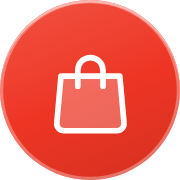
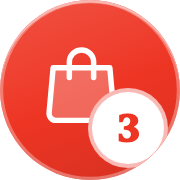
Composed mark with the 3 on a live disc; slimmer announcement strip

Changed region(s): [[0.25, 0.25, 0.9444, 0.9444]]

diff --git a/katie-hunt/site.css b/katie-hunt/site.css
@@ -2199,3 +2199,42 @@ body.modalopen{overflow:hidden}
 /* only the left column rises; the pill and headline beside it stay where they are */
 #page .hleft{padding-top:0;margin-top:-16px}
 @media (max-width:900px){#page .hleft{margin-top:0}}
+
+/* ------------------------------------------- the mark is composed: subject, live arc, and the 3
+   Not an icon in a circle. Their subject sits off-centre, a broadcast arc says the thing is live, and
+   the 3 of the three days rides a disc in their own display face. */
+#page .nav .cal .bmark,.melogo{overflow:visible}
+#page .nav .cal .bmark > .bglyph,.melogo > .bglyph{width:54%;height:54%;
+  transform:translate(-4.5%,-4.5%)}
+#page .nav .cal .bmark .blive,.melogo .blive{stroke-opacity:.6}
+.b3{position:absolute;right:9%;bottom:9%;width:40%;height:40%;border-radius:50%;background:#fff;
+  display:grid;place-items:center;z-index:3;
+  box-shadow:0 0 0 1.5px color-mix(in srgb,var(--accent) 34%,#fff),0 1px 3px rgba(28,20,12,.22)}
+/* the ring breathes, the way a live dot does */
+#page .nav .cal .bmark .b3{animation:b3live 2.6s ease-out infinite}
+@keyframes b3live{
+  0%,100%{box-shadow:0 0 0 1.5px color-mix(in srgb,var(--accent) 34%,#fff),0 1px 3px rgba(28,20,12,.22)}
+  50%{box-shadow:0 0 0 2.6px color-mix(in srgb,var(--accent) 24%,#fff),0 1px 3px rgba(28,20,12,.22)}
+}
+@media (prefers-reduced-motion:reduce){#page .nav .cal .bmark .b3{animation:none}}
+.b3 b{font-family:var(--display);font-weight:var(--dw2,800);font-size:.62em;line-height:1;
+  letter-spacing:-.04em;color:var(--accent)}
+#page .nav .cal .bmark{font-size:34px}
+.melogo{font-size:38px}
+.melogo.real .b3{display:none}
+/* the old monogram rule painted every b in the mark white, which hid the 3 on its white disc */
+#page .nav .cal .bmark .b3 b,.melogo .b3 b{color:var(--accent);font-family:var(--display);
+  font-weight:var(--dw2,800);font-size:.6em;letter-spacing:-.04em;line-height:1}
+/* the numeral sizes off the disc, not off the badge */
+.b3{font-size:40%}
+#page .nav .cal .bmark .b3 b,.melogo .b3 b{font-size:.68em}
+
+/* the announcement tab is a slim strip, not a block: it was 36px tall for a 10px line */
+#page #topbar{height:27px;padding:0 15px 8px;font-size:10px;letter-spacing:.12em;border-radius:9px 9px 0 0}
+#page .hdr.tight .navwrap{transform:translateY(-35px)}
+@media (max-width:820px){
+  #page #topbar{height:25px;padding:0 12px 7px;font-size:9.5px}
+  #page .hdr.tight .navwrap{transform:translateY(-33px)}
+}
+#page .hdr.tight .navwrap{transform:translateY(-44px)}
+@media (max-width:820px){#page .hdr.tight .navwrap{transform:translateY(-42px)}}

diff --git a/katie-hunt/site.js b/katie-hunt/site.js
@@ -245,9 +245,12 @@
   var BICON = '';
   /* the lead's mark: their subject drawn inside a brand tile. A graphic, not their initials. */
   function emblemSVG(stroke) {
-    return '<svg viewBox="0 0 24 24" aria-hidden="true" fill="none" stroke="currentColor" ' +
+    /* the mark is composed, not an icon: their subject, a broadcast arc that says this is live, and the
+       3 of the three days set in their own display face on a disc. */
+    return '<svg class="bglyph" viewBox="0 0 24 24" aria-hidden="true" fill="none" stroke="currentColor" ' +
       'stroke-width="' + (stroke || 1.7) + '" stroke-linecap="round" stroke-linejoin="round">' +
-      ICONS[brandIconKey()] + '</svg>';
+      ICONS[brandIconKey()] + '</svg>' +
+      '<span class="b3"><b>3</b></span>';
   }
   function ctaIcons() {
     BICON = '<i class="bi" aria-hidden="true"><svg viewBox="0 0 24 24" fill="none" stroke="currentColor" ' +

diff --git a/katie-hunt/index.html b/katie-hunt/index.html
@@ -12,7 +12,7 @@
 <link rel="icon" type="image/png" sizes="512x512" href="favicon.png">
 <link rel="apple-touch-icon" href="apple-touch-icon.png">
 <meta name="viewport" content="width=device-width,initial-scale=1">
-<link rel="stylesheet" href="site.css?v=71665e25">
+<link rel="stylesheet" href="site.css?v=32bb9851">
 </head>
 <body>
 <!-- Registration page, v4. Same section order as v3 (nav, hero, facts strip, fit check, stats band,
@@ -231,6 +231,6 @@
   "face": "handmade"
  }
 };</script>
-<script src="site.js?v=694e55e9"></script>
+<script src="site.js?v=fb671e1c"></script>
 </body>
 </html>
